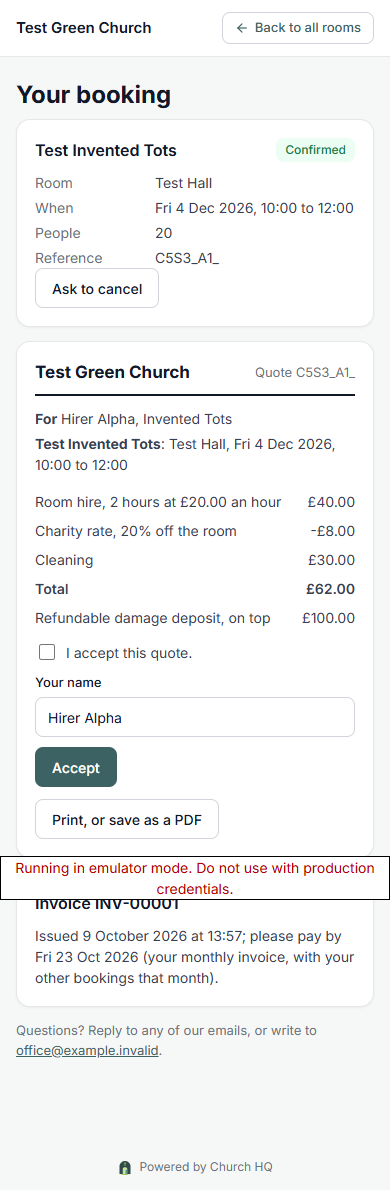
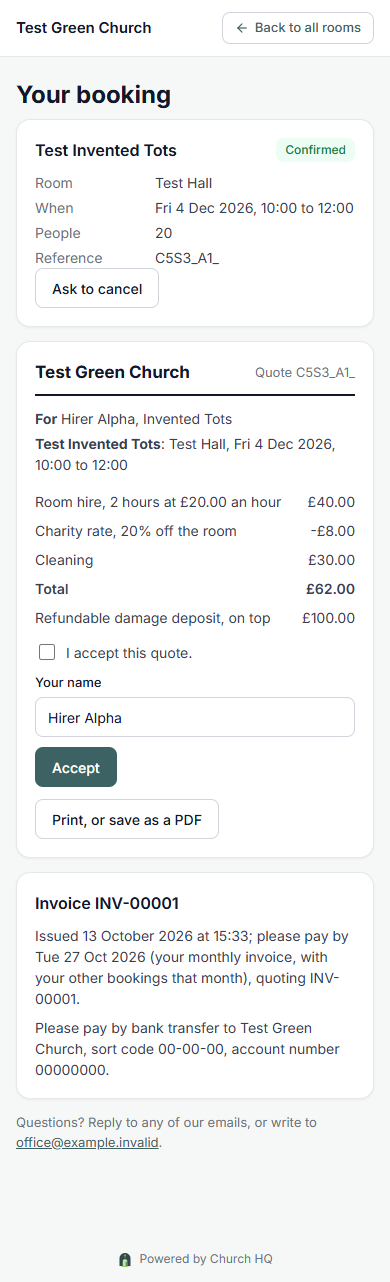
Events: invoices' "How to pay" comes from the one giving setting (F-161)
When an invoice is issued, its payment words are the Accounts box's (the
override, as before) or else the church's bank details from Church
details, and are kept on the invoice and each booking's invoice summary,
so the signed-out hirer sees them on their booking page and an old invoice
keeps the words it was sent with. c5-stage3 43/43 (6 new); 5 deliberate
breaks caught. Switch-over notes: bank details are typed once. Also:
k3-morning waits for the register's rows before reading them (a timing
race seen once in a full run).

diff --git a/v2/egbc-accounts.js b/v2/egbc-accounts.js
@@ -93,9 +93,33 @@
      The rules check the numbering, so two at once cannot share a number.
      charges: [{ id, bookingKey, lines, subtotal, vat, total, payer, ... }]
      o: { siteId, payer, monthly, period, label(charge) -> words, by } */
+  /* HOW TO PAY, decided when an invoice is issued and kept on it (and on
+     the booking's invoice summary), so the hirer sees the same words in
+     the email and on their own booking page - which is signed out and
+     cannot read the bank details - and an old invoice keeps the words it
+     was sent with if the details change later.
+       1. The Accounts "How to pay" box, if anything is typed there: the
+          office's override, as before.
+       2. Otherwise the church's bank details: ONE setting
+          (churchSettings/giving, EGBCChurch.giving(), signed in only),
+          typed once in Church details.
+       3. Otherwise nothing, and the invoice says only when to pay. */
+  function payWords(st) {
+    var own = String((st && st.payText) || '').trim();
+    if (own) return Promise.resolve(own.slice(0, 1000));
+    if (!global.EGBCChurch || !EGBCChurch.giving) return Promise.resolve('');
+    return EGBCChurch.giving().then(function (g) {
+      if (!EGBCChurch.givingReady()) return '';
+      var to = [g.accountName ? 'to ' + g.accountName : '', g.sortCode ? 'sort code ' + g.sortCode : '', g.accountNumber ? 'account number ' + g.accountNumber : ''].filter(Boolean);
+      return ('Please pay by bank transfer ' + to.join(', ') + '.').slice(0, 1000);
+    }, function () { return ''; });
+  }
+
   function issue(charges, o) {
-    var counter = db().collection('counters').doc('invoices'), made;
+    var counter = db().collection('counters').doc('invoices'), made, pay = '';
     return settings().then(function (st) {
+      return payWords(st).then(function (w) { pay = w; return st; });
+    }).then(function (st) {
       return db().runTransaction(function (tx) {
         return tx.get(counter).then(function (c) {
           var seq = c.exists ? c.data().next : 1;
@@ -106,12 +130,12 @@
           made = { seq: seq, number: number(seq), siteId: o.siteId, chargeIds: charges.map(function (ch) { return ch.id; }),
             bookingKeys: charges.map(function (ch) { return ch.bookingKey; }), payer: o.payer, lines: lines, subtotal: sub, vat: vat, total: sub + vat,
             monthly: !!o.monthly, period: o.period || '', issuedAt: new Date().toISOString(), dueDate: addDays(today(), +st.payDays || 14),
-            status: charges.every(function (ch) { return ch.status === 'paid'; }) ? 'paid' : 'unpaid', issuedBy: o.by || '' };
+            status: charges.every(function (ch) { return ch.status === 'paid'; }) ? 'paid' : 'unpaid', issuedBy: o.by || '', payText: pay };
           tx.set(db().collection('invoices').doc('inv_' + seq), made);
           tx.set(counter, { next: seq + 1 });
           charges.forEach(function (ch) {
             tx.update(db().collection('charges').doc(ch.id), { invoiceId: 'inv_' + seq, invoiceNumber: made.number });
-            tx.update(db().collection('bookings').doc(ch.bookingKey), { invoice: { number: made.number, issuedAt: made.issuedAt, dueDate: made.dueDate, monthly: made.monthly } });
+            tx.update(db().collection('bookings').doc(ch.bookingKey), { invoice: { number: made.number, issuedAt: made.issuedAt, dueDate: made.dueDate, monthly: made.monthly, payText: made.payText } });
           });
         });
       });
@@ -163,7 +187,7 @@
     }, Promise.resolve());
   }
 
-  global.EGBCAccounts = { settings: settings, NOT_BUILT: NOT_BUILT, sendCustomer: sendCustomer, sendInvoice: sendInvoice, sendPayment: sendPayment,
+  global.EGBCAccounts = { settings: settings, payWords: payWords, NOT_BUILT: NOT_BUILT, sendCustomer: sendCustomer, sendInvoice: sendInvoice, sendPayment: sendPayment,
     fetchPaymentStatus: fetchPaymentStatus, waiting: waiting, retry: retry, issue: issue, number: number, HEAD: HEAD, rows: rows, markExported: markExported };
 
 })(typeof window !== 'undefined' ? window : this);

diff --git a/v2/egbc-events-money.js b/v2/egbc-events-money.js
@@ -117,8 +117,11 @@
         '<p>' + esc(inv.payer.org || inv.payer.name || '') + (inv.payer.address ? '<br>' + esc(inv.payer.address).replace(/\n/g, '<br>') : '') + '</p>' +
         Q.table({ lines: inv.lines, subtotal: inv.subtotal, vat: inv.vat, vatRate: inv.vat ? '' : 0, total: inv.total, deposit: 0, damageDeposit: 0 }).replace('VAT (%)', 'VAT') +
         '<p>Please pay by <strong>' + esc(EGBCEvents.fmtDate(inv.dueDate + 'T12:00')) + '</strong>, quoting <strong>' + esc(inv.number) + '</strong>.</p>' +
-        (ctx.payText() ? '<p>' + esc(ctx.payText()).replace(/\n/g, '<br>') + '</p>' : '') + (links || '');
+        /* The words decided when it was issued (EGBCAccounts.payWords); an
+           invoice issued before they were kept on it uses today's setting. */
+        (payOf(inv) ? '<p>' + esc(payOf(inv)).replace(/\n/g, '<br>') + '</p>' : '') + (links || '');
     }
+    function payOf(inv) { return typeof inv.payText === 'string' ? inv.payText : ctx.payText(); }
     function monthWords(p) { return p ? new Date(p + '-15T12:00').toLocaleDateString('en-GB', { month: 'long', year: 'numeric' }) : ''; }
     function emailInvoice(inv, bookings) {
       var to = inv.payer.email; if (!to) return Promise.resolve();
@@ -200,7 +203,8 @@
           '<label style="display:flex;gap:8px;align-items:center;margin:4px 0"><input type="radio" name="x-mode" value="none"' + (st.mode !== 'calla' ? ' checked' : '') + '> None: the hub is the whole money system</label>' +
           '<label style="display:flex;gap:8px;align-items:center;margin:4px 0"><input type="radio" name="x-mode" value="calla"' + (st.mode === 'calla' ? ' checked' : '') + '> Calla Accounts: also send hirers, invoices and payments there</label>' +
           '<p class="hint">With Calla Accounts, who numbers the invoices is for Martin to decide; until then the hub does.</p>' +
-          '<div class="field"><label class="l" for="x-pay">How to pay (printed on invoices)</label><textarea class="inp" id="x-pay" style="height:70px;padding:8px 12px" placeholder="Bank transfer to ...">' + esc(st.payText || '') + '</textarea></div>' +
+          '<div class="field"><label class="l" for="x-pay">How to pay (printed on invoices)</label><textarea class="inp" id="x-pay" style="height:70px;padding:8px 12px" placeholder="Leave empty to use the church\'s bank details">' + esc(st.payText || '') + '</textarea>' +
+            '<p class="hint">Leave this empty and invoices use the church\'s bank details, typed in once in Church details. Anything typed here is used instead.</p></div>' +
           '<div class="row"><div class="f"><label class="l" for="x-days">Pay within (days)</label><input class="inp" type="number" min="0" max="120" id="x-days" value="' + (+st.payDays || 14) + '"></div></div>' +
           '<div class="acts"><button class="btn" id="x-save">Save</button></div></div>' : '') +
         '<div class="card" id="x-queue"><h2>Not yet sent to Calla Accounts</h2><p class="hint">Loading…</p></div>';

diff --git a/v2/my-booking.html b/v2/my-booking.html
@@ -105,7 +105,11 @@
       '</div>' +
       (confirmed && q ? quoteDoc() : '') +
       (b.invoice ? '<div class="card" id="invoice"><h2>Invoice ' + esc(b.invoice.number) + '</h2><p style="margin:0">Issued ' + esc(fmtAt(b.invoice.issuedAt)) +
-        (b.invoice.dueDate ? '; please pay by ' + esc(EGBCEvents.fmtDate(b.invoice.dueDate + 'T12:00')) : '') + (b.invoice.monthly ? ' (your monthly invoice, with your other bookings that month)' : '') + '.</p></div>' : '') +
+        (b.invoice.dueDate ? '; please pay by ' + esc(EGBCEvents.fmtDate(b.invoice.dueDate + 'T12:00')) : '') + (b.invoice.monthly ? ' (your monthly invoice, with your other bookings that month)' : '') + ', quoting ' + esc(b.invoice.number) + '.</p>' +
+        /* How to pay, as it was on the invoice when it was issued: kept on the
+           booking, because this page is signed out and cannot read the
+           church's bank details itself. */
+        (b.invoice.payText ? '<p id="paytext" style="margin:8px 0 0">' + esc(b.invoice.payText).replace(/\n/g, '<br>') + '</p>' : '') + '</div>' : '') +
       (confirmed && q && pay ? '<div class="card" id="paid"><h2>Payments</h2><p style="margin:0">' +
         (pay.status === 'paid' ? '<b>Paid in full</b>, ' + QT.pounds(pay.paid) + '. Thank you.' : 'Paid ' + QT.pounds(pay.paid || 0) + ' of ' + QT.pounds(pay.total) + '.') + '</p></div>' : '') +
       (b.damage && b.damage.status && b.damage.status !== 'none' ? '<div class="card" id="damage"><h2>Damage deposit</h2><p style="margin:0">' + damageWords(b.damage) + '</p></div>' : '') +

diff --git a/v2/bookings-admin.html b/v2/bookings-admin.html
@@ -21,8 +21,8 @@
 <script src="egbc-events-rooms.js?v=202610081800"></script>
 <script src="egbc-events-bookings.js?v=202610111000"></script>
 <script src="egbc-events-quote.js?v=202610101700"></script>
-<script src="egbc-accounts.js?v=202610101900"></script>
-<script src="egbc-events-money.js?v=202610091900"></script>
+<script src="egbc-accounts.js?v=202610131600"></script>
+<script src="egbc-events-money.js?v=202610131600"></script>
 <link href="https://fonts.googleapis.com/css2?family=Inter:wght@400;500;600;700&display=swap" rel="stylesheet">
 <style>
   :root{

diff --git a/v2/FINDINGS-events.md b/v2/FINDINGS-events.md
@@ -3502,3 +3502,58 @@ which Martin does with the main window's steps.
 2. **For the main window: take `notifications.html` off the WAITING list**
    in `tests/check-app-mode.mjs`. F-159's line is in (5424b2b0), so the
    check can now hold the page to the same standard.
+
+### F-161 — invoices' "How to pay" comes from the one giving setting
+**Asked:** room-hire invoices' "How to pay" should default to the church's
+bank details, the one giving setting (`EGBCChurch.giving()`), with the old
+Accounts box kept as an override.
+
+**How it works:**
+- **When an invoice is issued**, `EGBCAccounts.payWords()` decides the
+  words:
+  1. **Words typed in Accounts' "How to pay" box**, if there are any. The
+     override stays.
+  2. **Otherwise the church's bank details:** "Please pay by bank transfer
+     to …, sort code …, account number …".
+  3. **Otherwise nothing,** and the invoice says only when to pay, as
+     before.
+- **The words are kept on the invoice and on each booking's invoice
+  summary** (`payText`).
+  - The giving setting is signed-in only, so the hirer's own booking page,
+    which is signed out, could never read it. It reads the kept words
+    instead.
+  - An invoice keeps the words it was sent with if the details change
+    later.
+- **The invoice email prints the kept words.** An invoice issued before
+  this falls back to the Accounts box, as before.
+- **The hirer's booking page shows them** under the invoice. It now also
+  says "quoting INV-…".
+- **The Accounts box** says that leaving it empty uses the church's bank
+  details.
+- **No rules change.** Invoices aren't limited to a fixed list of fields,
+  and the office may already write a booking's invoice summary.
+- **Who can issue with it:** anyone signed in may read the giving setting,
+  so every office person who issues invoices can.
+
+**Worth knowing:** the bank details were kept to signed-in people. Now they
+are also on each invoiced booking, which anyone with that booking's
+private link (the hirer) can open. That's what copying them onto the
+invoice means, and a hirer needs them to pay.
+
+**Proved:** `c5-stage3.test.mjs`, now 43 checks (6 new):
+- with nothing in Accounts, the bank details, on the invoice, its bookings
+  and the email
+- with words in Accounts, those instead, from the next invoice on
+- the first invoice keeps its words
+- signed out, each hirer sees their own invoice's words
+
+**5 deliberate breaks, all caught:**
+- **The one that matters:** back to how it was, where an invoice says
+  nothing about how to pay.
+- The override ignored.
+- The words not kept on the booking.
+- The email using today's box rather than the invoice's words.
+- The hirer's page not showing them.
+
+**Switch-over notes updated:** bank details are typed once, in Church
+details. The Accounts box is only for different wording.

diff --git a/v2/SWITCHOVER-events.md b/v2/SWITCHOVER-events.md
@@ -34,7 +34,7 @@ These two change who can see things the moment the rules are live.
 | What | Page | Why it can't wait |
 |---|---|---|
 | Give **each existing form** a Team | `forms-admin.html`: open each form, pick its Team, Save | Until then, only master admins and the safeguarding lead can use those forms (F-092) |
-| Press **Save once** on Accounts | Room bookings → **Accounts** → Save | Until then, a bookings admin who isn't an admin prints invoices without "how to pay" (F-108) |
+| Press **Save once** on Accounts | Room bookings → **Accounts** → Save | Until then, a bookings admin who isn't an admin can't read the Accounts setting. Their invoices still carry the bank details from Church details, but not any wording typed in Accounts (F-108, F-161) |
 
 **Also worth one look:** sign in as an admin who has never signed in
 before. F-011 says a first sign-in might be refused under the new rules.
@@ -182,7 +182,7 @@ so "Show on screen" can call a parent.
   members are offered "Church or ministry use".
 - **Price cards** per room and kind. VAT is off unless ticked.
 - **Terms and conditions** for each kind.
-- **Bank details** for "how to pay" on invoices. Nothing is assumed.
+- **Bank details** for "how to pay" on invoices: typed **once**, in Church details (the giving details). Every invoice uses them (F-161). Type in Room bookings → Accounts → "How to pay" **only** to say something different on invoices. Until they are in, an invoice says only when to pay.
 - **Hirer records:** the charity rate needs the charity number checked.
 - **Kit**, the **catering menu** and **outside venues.**
 - **Until prices are set:** the hire page asks people to get in touch about
